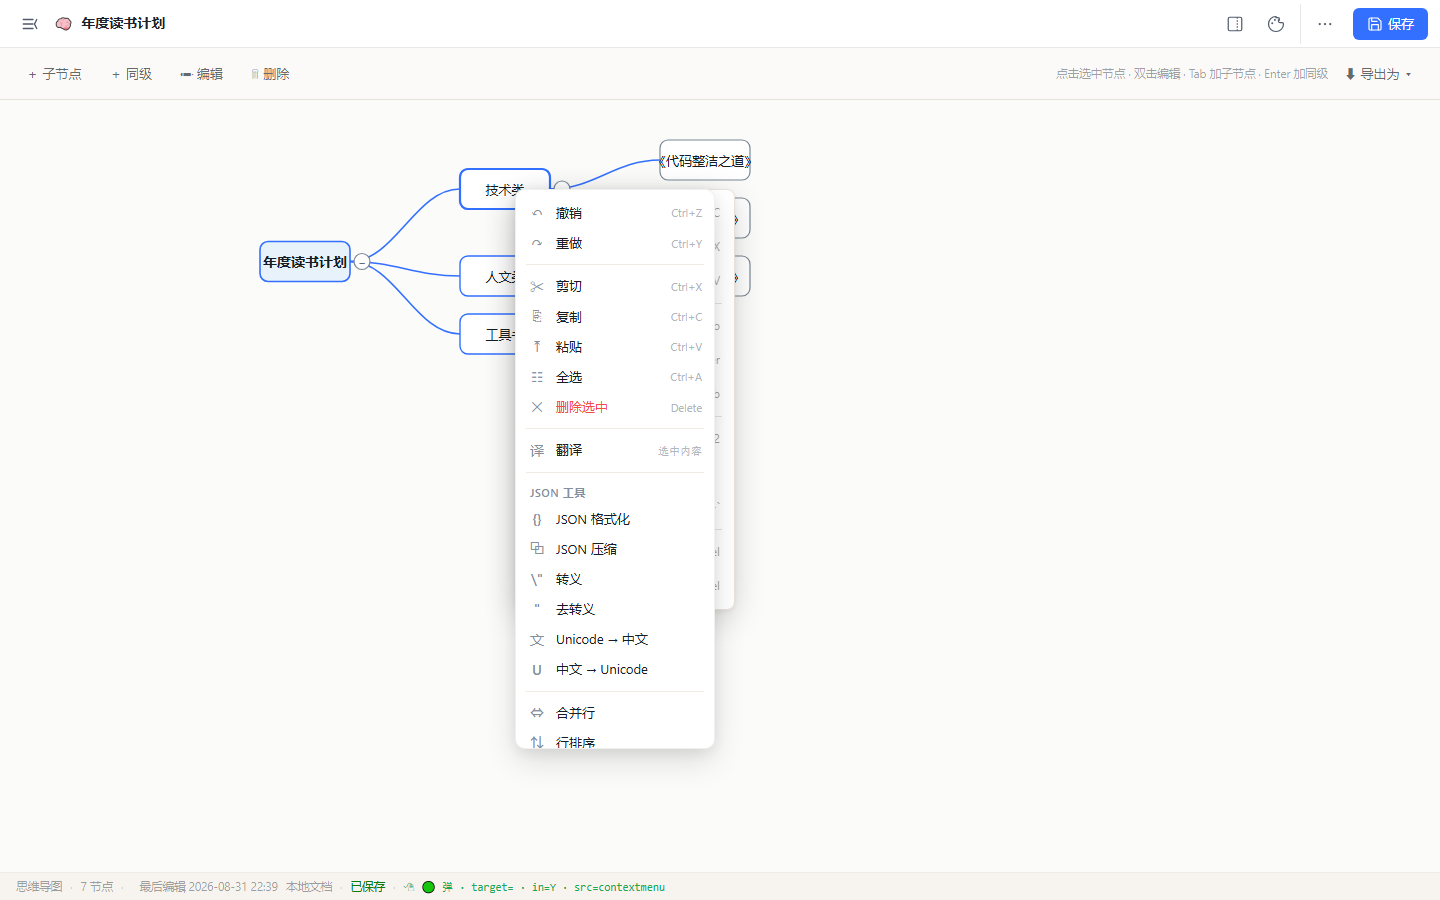
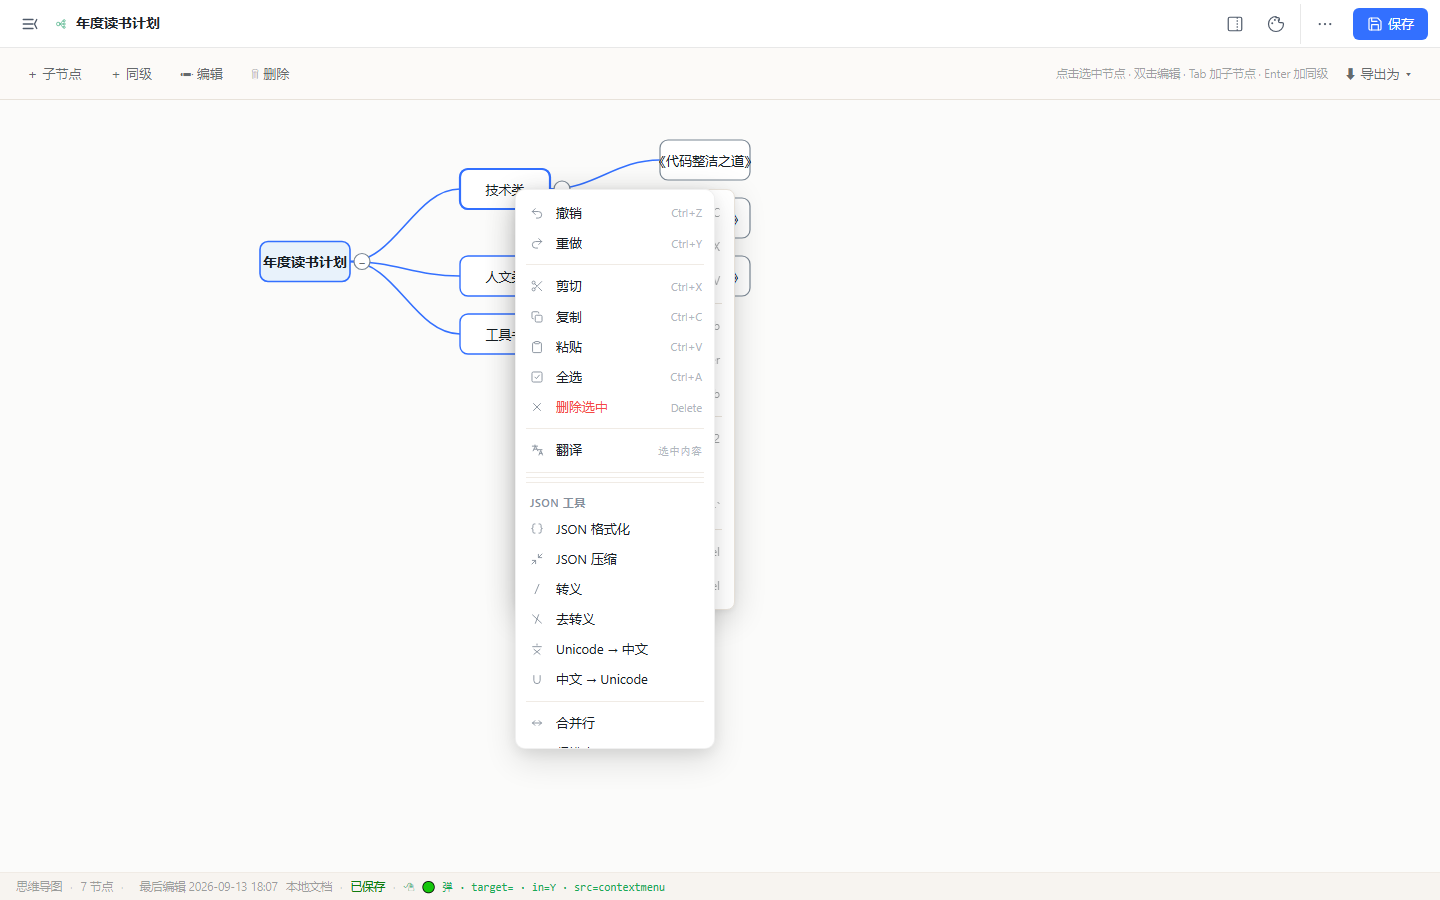
chore(site): 更新发布页面 v1.0.1

Changed region(s): [[0.375, 0.5289, 0.4688, 0.84], [0.0312, 0.0, 0.125, 0.0311], [0.1562, 0.9644, 0.1875, 0.9956]]

diff --git a/download.html b/download.html
@@ -186,34 +186,34 @@
     <div class="logo"><img src="resource/app_512.png" alt="L.Note"></div>
     <h1>L.Note本地笔记编辑软件</h1>
     <p class="tagline">本地笔记编辑软件 —— 语法高亮 · Markdown 预览 · Mermaid 图表 · JSON/XML 工具</p>
-    <div class="badge">免费 · 纯本地运行 · 无需联网 · 安装版 / 便携版可选 · <b>v1.0.0</b></div>
+    <div class="badge">免费 · 纯本地运行 · 无需联网 · 安装版 / 便携版可选 · <b>v1.0.1</b></div>
   </header>
 
   <div class="dl-grid">
     <div class="dl-card">
       <div class="dl-tag">推荐 · 安装版</div>
-      <a class="dl-btn" href="https://gitee.com/x_xiansheng/l.-note/releases/download/v1.0.0/L.Note-setup-v1.0.0.exe" download>
+      <a class="dl-btn" href="https://gitee.com/x_xiansheng/l.-note/releases/download/v1.0.1/L.Note-setup-v1.0.1.exe" download>
         <svg viewBox="0 0 24 24" fill="none" stroke="currentColor" stroke-width="2" stroke-linecap="round" stroke-linejoin="round"><path d="M12 3v12m0 0 4-4m-4 4-4-4M4 17v2a2 2 0 0 0 2 2h12a2 2 0 0 0 2-2v-2"/></svg>
-        下载安装版 v1.0.0
+        下载安装版 v1.0.1
       </a>
       <div class="dl-meta">
         安装向导 · 约 18.3 MB · Windows 10/11（x64）<br>
         可选注册 .md / .markdown / 图片文件关联，含卸载程序<br>
         SHA256（可复制核对）：<br>
-        <code class="hash">858B2FA4BE9823129A0AB0A960BA90477498D2A5A840B7597DECAD1D0A2AC125</code>
+        <code class="hash">2DA09C8D2201AA47975D0E52F47C54DE9821B20864B0334E827B3075A61C7506</code>
       </div>
     </div>
     <div class="dl-card">
       <div class="dl-tag alt">免安装 · 便携版</div>
-      <a class="dl-btn alt" href="https://gitee.com/x_xiansheng/l.-note/releases/download/v1.0.0/L.Note-v1.0.0-win64.exe" download>
+      <a class="dl-btn alt" href="https://gitee.com/x_xiansheng/l.-note/releases/download/v1.0.1/L.Note-v1.0.1-win64.exe" download>
         <svg viewBox="0 0 24 24" fill="none" stroke="currentColor" stroke-width="2" stroke-linecap="round" stroke-linejoin="round"><path d="M12 3v12m0 0 4-4m-4 4-4-4M4 17v2a2 2 0 0 0 2 2h12a2 2 0 0 0 2-2v-2"/></svg>
-        下载便携版 v1.0.0
+        下载便携版 v1.0.1
       </a>
       <div class="dl-meta">
         免安装 · 约 16.7 MB · Windows 10/11（x64）<br>
         双击直接运行；需要文件关联时用 register-file-assoc.ps1<br>
         SHA256（可复制核对）：<br>
-        <code class="hash">F7722C071D0B5D87575D3BE331EA97C24C9F9073D5CC8DDE42A6A660269B0D84</code>
+        <code class="hash">CA4D59A5321E86AD07577551D6E038F03F8441EB5E345B8260801F477AD74F62</code>
       </div>
     </div>
   </div>
@@ -305,8 +305,8 @@
       <div class="panel">
         <h3>安装与运行</h3>
         <ul>
-          <li><b>安装版（推荐）：</b>双击 L.Note-setup-v1.0.0.exe，按向导完成安装；勾选「注册文件关联」后，.md / .markdown / 图片文件即可双击用 L.Note 打开</li>
-          <li><b>便携版：</b>双击 L.Note-v1.0.0-win64.exe，免安装直接运行</li>
+          <li><b>安装版（推荐）：</b>双击 L.Note-setup-v1.0.1.exe，按向导完成安装；勾选「注册文件关联」后，.md / .markdown / 图片文件即可双击用 L.Note 打开</li>
+          <li><b>便携版：</b>双击 L.Note-v1.0.1-win64.exe，免安装直接运行</li>
           <li>依赖 Edge WebView2 运行时（Win11 自带，Win10 一般已预装）</li>
           <li>数据保存在本机浏览器存储，卸载/换机前请先导出备份</li>
         </ul>
@@ -316,8 +316,8 @@
         <ul>
           <li>复制上方对应文件的 SHA256 值</li>
           <li>在 exe 所在目录执行：</li>
-          <li><b>certutil -hashfile L.Note-setup-v1.0.0.exe SHA256</b></li>
-          <li><b>certutil -hashfile L.Note-v1.0.0-win64.exe SHA256</b></li>
+          <li><b>certutil -hashfile L.Note-setup-v1.0.1.exe SHA256</b></li>
+          <li><b>certutil -hashfile L.Note-v1.0.1-win64.exe SHA256</b></li>
           <li>比对输出哈希是否一致</li>
         </ul>
       </div>
@@ -326,6 +326,12 @@
 
   <section>
     <h2>更新日志</h2>
+    <div class="changelog">
+      <div class="v">v1.0.1</div>
+      <ul>
+        <li>**修复富文本文档点击「保存」提示保存失败**：根因是「另存为」原生对话框的文件类型过滤器描述含品牌名「L.Note」中的点号，pywebview 的 `parse_file_type` 只接受 `[\w ]+ (*.ext)` 形式并会抛 `ValueError`，而该异常在平台 try 之外，直接导致整个保存流程失败；现前端过滤器描述改为「LNote 富文档 (*.json)」，Python 侧 `_ask_save_path` 对每条过滤器逐条校验、剔除非法项并在全部非法时回落到「所有文件 (*.*)」，双保险后保存恢复正常。，**新建文档默认名称统一为「无标题 / 无标题 2 / 无标题 3 …」**：此前普通文档走「无标题」，而快捷键 `Ctrl+N` 及富文本 / 流程图 / 思维导图 / 笔记等入口走「未命名文档 N」，两套命名规则并存；现全部新建入口统一复用 `nextAutoTitle()`，按现有「无标题」文档数量追加序号，侧栏与标题框显示一致。，**新建文档不再自动写入磁盘**：新建文档仅保存在本地存储，必须由用户显式点击「保存 / 另存为」才创建磁盘文件，此后编辑才会自动同步到磁盘；修复「新建的文档未经确认就落盘」的问题，未关联磁盘文件时状态栏显示「已保存」而非「已保存到磁盘」。，**预览内容安全加固**：Markdown / HTML 预览挂载前新增「标签 + 属性」白名单净化（丢弃 `<script>` / `<iframe>` / `<object>` / 表单控件等，仅保留 `href` / `src` 等必要属性并校验 URL 协议，拦截 `javascript:` 等危险链接）；Mermaid 安全级别由 `loose` 收紧为 `strict`；`app.html` 新增 Content-Security-Policy，并把 HTML 预览 iframe 的 `sandbox` 收紧为仅 `allow-scripts`（去掉 `allow-same-origin`），杜绝预览内容逃逸。，**高危原生 API 增加会话令牌校验**：Python 端对写盘、移动 / 删除文件、保存图片、执行更新安装包等高危方法要求首位参数携带本进程随机生成的令牌（`hmac.compare_digest` 恒定时间比对），令牌仅保存在前端模块作用域、页面内注入脚本无法读取，因而无法直接调用 `window.pywebview.api` 触发高危操作；前端所有高危调用统一改走 `callApi()` 自动前置令牌。，**自动更新增加 SHA256 完整性校验**：下载完成后先进入「正在校验安装包完整性」状态，Python 端按 Gitee raw → GitHub raw → GitHub Pages 顺序拉取官方 `SHA256SUMS.txt`，与已下载临时文件的实际 SHA256 比对，一致才 `os.replace` 就位；校验和不匹配或无法获取官方值时删除临时文件并中止安装，防止下载被篡改或损坏。</li>
+      </ul>
+    </div>
     <div class="changelog">
       <div class="v">v1.0.0</div>
       <ul>

diff --git a/index.html b/index.html
@@ -186,34 +186,34 @@
     <div class="logo"><img src="resource/app_512.png" alt="L.Note"></div>
     <h1>L.Note本地笔记编辑软件</h1>
     <p class="tagline">本地笔记编辑软件 —— 语法高亮 · Markdown 预览 · Mermaid 图表 · JSON/XML 工具</p>
-    <div class="badge">免费 · 纯本地运行 · 无需联网 · 安装版 / 便携版可选 · <b>v1.0.0</b></div>
+    <div class="badge">免费 · 纯本地运行 · 无需联网 · 安装版 / 便携版可选 · <b>v1.0.1</b></div>
   </header>
 
   <div class="dl-grid">
     <div class="dl-card">
       <div class="dl-tag">推荐 · 安装版</div>
-      <a class="dl-btn" href="https://gitee.com/x_xiansheng/l.-note/releases/download/v1.0.0/L.Note-setup-v1.0.0.exe" download>
+      <a class="dl-btn" href="https://gitee.com/x_xiansheng/l.-note/releases/download/v1.0.1/L.Note-setup-v1.0.1.exe" download>
         <svg viewBox="0 0 24 24" fill="none" stroke="currentColor" stroke-width="2" stroke-linecap="round" stroke-linejoin="round"><path d="M12 3v12m0 0 4-4m-4 4-4-4M4 17v2a2 2 0 0 0 2 2h12a2 2 0 0 0 2-2v-2"/></svg>
-        下载安装版 v1.0.0
+        下载安装版 v1.0.1
       </a>
       <div class="dl-meta">
         安装向导 · 约 18.3 MB · Windows 10/11（x64）<br>
         可选注册 .md / .markdown / 图片文件关联，含卸载程序<br>
         SHA256（可复制核对）：<br>
-        <code class="hash">858B2FA4BE9823129A0AB0A960BA90477498D2A5A840B7597DECAD1D0A2AC125</code>
+        <code class="hash">2DA09C8D2201AA47975D0E52F47C54DE9821B20864B0334E827B3075A61C7506</code>
       </div>
     </div>
     <div class="dl-card">
       <div class="dl-tag alt">免安装 · 便携版</div>
-      <a class="dl-btn alt" href="https://gitee.com/x_xiansheng/l.-note/releases/download/v1.0.0/L.Note-v1.0.0-win64.exe" download>
+      <a class="dl-btn alt" href="https://gitee.com/x_xiansheng/l.-note/releases/download/v1.0.1/L.Note-v1.0.1-win64.exe" download>
         <svg viewBox="0 0 24 24" fill="none" stroke="currentColor" stroke-width="2" stroke-linecap="round" stroke-linejoin="round"><path d="M12 3v12m0 0 4-4m-4 4-4-4M4 17v2a2 2 0 0 0 2 2h12a2 2 0 0 0 2-2v-2"/></svg>
-        下载便携版 v1.0.0
+        下载便携版 v1.0.1
       </a>
       <div class="dl-meta">
         免安装 · 约 16.7 MB · Windows 10/11（x64）<br>
         双击直接运行；需要文件关联时用 register-file-assoc.ps1<br>
         SHA256（可复制核对）：<br>
-        <code class="hash">F7722C071D0B5D87575D3BE331EA97C24C9F9073D5CC8DDE42A6A660269B0D84</code>
+        <code class="hash">CA4D59A5321E86AD07577551D6E038F03F8441EB5E345B8260801F477AD74F62</code>
       </div>
     </div>
   </div>
@@ -305,8 +305,8 @@
       <div class="panel">
         <h3>安装与运行</h3>
         <ul>
-          <li><b>安装版（推荐）：</b>双击 L.Note-setup-v1.0.0.exe，按向导完成安装；勾选「注册文件关联」后，.md / .markdown / 图片文件即可双击用 L.Note 打开</li>
-          <li><b>便携版：</b>双击 L.Note-v1.0.0-win64.exe，免安装直接运行</li>
+          <li><b>安装版（推荐）：</b>双击 L.Note-setup-v1.0.1.exe，按向导完成安装；勾选「注册文件关联」后，.md / .markdown / 图片文件即可双击用 L.Note 打开</li>
+          <li><b>便携版：</b>双击 L.Note-v1.0.1-win64.exe，免安装直接运行</li>
           <li>依赖 Edge WebView2 运行时（Win11 自带，Win10 一般已预装）</li>
           <li>数据保存在本机浏览器存储，卸载/换机前请先导出备份</li>
         </ul>
@@ -316,8 +316,8 @@
         <ul>
           <li>复制上方对应文件的 SHA256 值</li>
           <li>在 exe 所在目录执行：</li>
-          <li><b>certutil -hashfile L.Note-setup-v1.0.0.exe SHA256</b></li>
-          <li><b>certutil -hashfile L.Note-v1.0.0-win64.exe SHA256</b></li>
+          <li><b>certutil -hashfile L.Note-setup-v1.0.1.exe SHA256</b></li>
+          <li><b>certutil -hashfile L.Note-v1.0.1-win64.exe SHA256</b></li>
           <li>比对输出哈希是否一致</li>
         </ul>
       </div>
@@ -326,6 +326,12 @@
 
   <section>
     <h2>更新日志</h2>
+    <div class="changelog">
+      <div class="v">v1.0.1</div>
+      <ul>
+        <li>**修复富文本文档点击「保存」提示保存失败**：根因是「另存为」原生对话框的文件类型过滤器描述含品牌名「L.Note」中的点号，pywebview 的 `parse_file_type` 只接受 `[\w ]+ (*.ext)` 形式并会抛 `ValueError`，而该异常在平台 try 之外，直接导致整个保存流程失败；现前端过滤器描述改为「LNote 富文档 (*.json)」，Python 侧 `_ask_save_path` 对每条过滤器逐条校验、剔除非法项并在全部非法时回落到「所有文件 (*.*)」，双保险后保存恢复正常。，**新建文档默认名称统一为「无标题 / 无标题 2 / 无标题 3 …」**：此前普通文档走「无标题」，而快捷键 `Ctrl+N` 及富文本 / 流程图 / 思维导图 / 笔记等入口走「未命名文档 N」，两套命名规则并存；现全部新建入口统一复用 `nextAutoTitle()`，按现有「无标题」文档数量追加序号，侧栏与标题框显示一致。，**新建文档不再自动写入磁盘**：新建文档仅保存在本地存储，必须由用户显式点击「保存 / 另存为」才创建磁盘文件，此后编辑才会自动同步到磁盘；修复「新建的文档未经确认就落盘」的问题，未关联磁盘文件时状态栏显示「已保存」而非「已保存到磁盘」。，**预览内容安全加固**：Markdown / HTML 预览挂载前新增「标签 + 属性」白名单净化（丢弃 `<script>` / `<iframe>` / `<object>` / 表单控件等，仅保留 `href` / `src` 等必要属性并校验 URL 协议，拦截 `javascript:` 等危险链接）；Mermaid 安全级别由 `loose` 收紧为 `strict`；`app.html` 新增 Content-Security-Policy，并把 HTML 预览 iframe 的 `sandbox` 收紧为仅 `allow-scripts`（去掉 `allow-same-origin`），杜绝预览内容逃逸。，**高危原生 API 增加会话令牌校验**：Python 端对写盘、移动 / 删除文件、保存图片、执行更新安装包等高危方法要求首位参数携带本进程随机生成的令牌（`hmac.compare_digest` 恒定时间比对），令牌仅保存在前端模块作用域、页面内注入脚本无法读取，因而无法直接调用 `window.pywebview.api` 触发高危操作；前端所有高危调用统一改走 `callApi()` 自动前置令牌。，**自动更新增加 SHA256 完整性校验**：下载完成后先进入「正在校验安装包完整性」状态，Python 端按 Gitee raw → GitHub raw → GitHub Pages 顺序拉取官方 `SHA256SUMS.txt`，与已下载临时文件的实际 SHA256 比对，一致才 `os.replace` 就位；校验和不匹配或无法获取官方值时删除临时文件并中止安装，防止下载被篡改或损坏。</li>
+      </ul>
+    </div>
     <div class="changelog">
       <div class="v">v1.0.0</div>
       <ul>

diff --git a/blink-guide.html b/blink-guide.html
@@ -105,7 +105,7 @@
     <div class="logo">L.</div>
     <h1>反向链接 · 操作指南</h1>
     <p class="tagline">L.Note本地笔记编辑软件内置反向链接面板，帮你发现文档之间的关联</p>
-    <div class="badge">版本 v1.0.0 · 纯本地运行 · <b>4 步上手</b></div>
+    <div class="badge">版本 v1.0.1 · 纯本地运行 · <b>4 步上手</b></div>
   </header>
 
   <div class="intro">

diff --git a/RELEASE-NOTES.md b/RELEASE-NOTES.md
@@ -1,13 +1,13 @@
-# L.Note v1.0.0 发布说明
+# L.Note v1.0.1 发布说明
 
 > L.Note本地笔记编辑软件：语法高亮 / Markdown 实时预览 / Mermaid 图表 / JSON·XML 格式化。
 > 纯本地运行，数据保存在本地存储，无需联网、无账号。
 
 ## 下载
 
-> 官方 Windows 安装版（标准安装向导 + 可选文件关联 + 卸载程序，自 v0.21.11 起提供）与便携版均可直接下载，推荐大多数用户下载安装版。本版 v1.0.0 重做了全套文档类型图标：新建菜单、侧栏文档列表、顶栏面包屑、富文档浮动工具条与右键「AI 图表」菜单里原先的 emoji 图标，全部替换为统一线性风格的 SVG 图标，并按文档类型各赋一种颜色——文档（灰蓝）/ 富文档（紫）/ Word（深蓝）/ 思维笔记（品红）/ 便利贴（琥珀）/ 图表（青）/ 流程图（蓝）/ 思维导图（绿）/ PDF（红），「打开文件夹」「导入文件」两个菜单动作图标也一并换为线性图标并上色（青绿 / 橙棕）；深色模式下自动切换为同色相的提亮值，回收站与 AI 菜单禁用态则统一置灰。同时修复自动更新安装期间屏幕无任何反馈的问题：守护进程调用安装器由 `/VERYSILENT` 改为 `/SILENT`，保留原生安装进度窗口。上一版 v0.23.2 新增 AI 能力并支持文档列表拖动排序：在「设置 → AI 助手」填入自己的 API Key（OpenAI 兼容接口，默认 DeepSeek）后，在正文中选中文本即可通过右键菜单或浮动工具条调用 AI 助手（润色 / 续写 / 总结要点 / 扩写 / 纠错 / 生成大纲，结果在独立浮层流式输出，可随时停止并替换原文或插入到光标处），并可一键生成流程图 / 思维导图；密钥仅保存在本机配置文件，不写入任何文档、不上传第三方。再上一版 v0.21.17 已将自动更新改为守护进程原地静默升级并自动重启，自 v0.21.13 起支持自动更新。
+> 官方 Windows 安装版（标准安装向导 + 可选文件关联 + 卸载程序，自 v0.21.11 起提供）与便携版均可直接下载，推荐大多数用户下载安装版。本版 v1.0.1 重做了全套文档类型图标：新建菜单、侧栏文档列表、顶栏面包屑、富文档浮动工具条与右键「AI 图表」菜单里原先的 emoji 图标，全部替换为统一线性风格的 SVG 图标，并按文档类型各赋一种颜色——文档（灰蓝）/ 富文档（紫）/ Word（深蓝）/ 思维笔记（品红）/ 便利贴（琥珀）/ 图表（青）/ 流程图（蓝）/ 思维导图（绿）/ PDF（红），「打开文件夹」「导入文件」两个菜单动作图标也一并换为线性图标并上色（青绿 / 橙棕）；深色模式下自动切换为同色相的提亮值，回收站与 AI 菜单禁用态则统一置灰。同时修复自动更新安装期间屏幕无任何反馈的问题：守护进程调用安装器由 `/VERYSILENT` 改为 `/SILENT`，保留原生安装进度窗口。上一版 v0.23.2 新增 AI 能力并支持文档列表拖动排序：在「设置 → AI 助手」填入自己的 API Key（OpenAI 兼容接口，默认 DeepSeek）后，在正文中选中文本即可通过右键菜单或浮动工具条调用 AI 助手（润色 / 续写 / 总结要点 / 扩写 / 纠错 / 生成大纲，结果在独立浮层流式输出，可随时停止并替换原文或插入到光标处），并可一键生成流程图 / 思维导图；密钥仅保存在本机配置文件，不写入任何文档、不上传第三方。再上一版 v0.21.17 已将自动更新改为守护进程原地静默升级并自动重启，自 v0.21.13 起支持自动更新。
 
-- 安装版（推荐，约 18.3 MB）：`L.Note-setup-v1.0.0.exe`
+- 安装版（推荐，约 18.3 MB）：`L.Note-setup-v1.0.1.exe`
 
   - 标准 Inno Setup 安装向导，自定义安装目录（默认 `%LOCALAPPDATA%\Programs\L.Note`），自动创建开始菜单快捷方式
 
@@ -15,7 +15,7 @@
 
   - 自带标准卸载程序：Windows 设置 → 应用 → 已安装的应用 → L.Note → 卸载，或开始菜单「卸载 L.Note」
 
-- 便携版（免安装，约 16.7 MB）：`L.Note-v1.0.0-win64.exe`
+- 便携版（免安装，约 16.7 MB）：`L.Note-v1.0.1-win64.exe`
 
 - 校验和：见 `SHA256SUMS.txt`（可用 `certutil -hashfile <文件> SHA256` 核对）
 
@@ -23,8 +23,8 @@
 
 ## 使用说明
 
-1. 安装版：双击 `L.Note-setup-v1.0.0.exe` 进入安装向导 → 选择安装目录 → 建议勾选「注册文件关联」任务 → 完成安装后从开始菜单启动 L.Note。
-2. 便携版：双击 `L.Note-v1.0.0-win64.exe` 直接运行，无需安装；想注册文件关联时可运行仓库内 `register-file-assoc.ps1`（仅写 HKCU，无需管理员权限）。
+1. 安装版：双击 `L.Note-setup-v1.0.1.exe` 进入安装向导 → 在「选择附加任务」页按需勾选「创建桌面快捷方式」或「文件关联」（后者把 L.Note 设为 .md/.markdown 与常见图片的默认打开程序）→ 依次完成「准备安装」「正在安装」→ 在完成页点击「完成」后从开始菜单或桌面快捷方式启动 L.Note。
+2. 便携版：双击 `L.Note-v1.0.1-win64.exe` 直接运行，无需安装；想注册文件关联时可运行仓库内 `register-file-assoc.ps1`（仅写 HKCU，无需管理员权限）。
 3. 未签名程序首次运行可能出现 SmartScreen「未知发布者」提示：点击「更多信息」→「仍要运行」即可（详见下方「关于签名」）。
 4. 数据保存在本机（浏览器 localStorage），换电脑/清理数据前请先用「导出」备份。
 
@@ -33,6 +33,20 @@
 当前发布包未做代码签名（无受信任 CA 证书），Windows SmartScreen 会提示「未知发布者」。这不影响功能与安全；如需消除提示，可购买 OV/EV 代码签名证书（约 ¥1000/年）后重新签名发布，后续版本可跟进。
 
 ## 更新日志（本版亮点）
+
+**v1.0.1**
+
+- **修复富文本文档点击「保存」提示保存失败**：根因是「另存为」原生对话框的文件类型过滤器描述含品牌名「L.Note」中的点号，pywebview 的 `parse_file_type` 只接受 `[\w ]+ (*.ext)` 形式并会抛 `ValueError`，而该异常在平台 try 之外，直接导致整个保存流程失败；现前端过滤器描述改为「LNote 富文档 (*.json)」，Python 侧 `_ask_save_path` 对每条过滤器逐条校验、剔除非法项并在全部非法时回落到「所有文件 (*.*)」，双保险后保存恢复正常。
+
+- **新建文档默认名称统一为「无标题 / 无标题 2 / 无标题 3 …」**：此前普通文档走「无标题」，而快捷键 `Ctrl+N` 及富文本 / 流程图 / 思维导图 / 笔记等入口走「未命名文档 N」，两套命名规则并存；现全部新建入口统一复用 `nextAutoTitle()`，按现有「无标题」文档数量追加序号，侧栏与标题框显示一致。
+
+- **新建文档不再自动写入磁盘**：新建文档仅保存在本地存储，必须由用户显式点击「保存 / 另存为」才创建磁盘文件，此后编辑才会自动同步到磁盘；修复「新建的文档未经确认就落盘」的问题，未关联磁盘文件时状态栏显示「已保存」而非「已保存到磁盘」。
+
+- **预览内容安全加固**：Markdown / HTML 预览挂载前新增「标签 + 属性」白名单净化（丢弃 `<script>` / `<iframe>` / `<object>` / 表单控件等，仅保留 `href` / `src` 等必要属性并校验 URL 协议，拦截 `javascript:` 等危险链接）；Mermaid 安全级别由 `loose` 收紧为 `strict`；`app.html` 新增 Content-Security-Policy，并把 HTML 预览 iframe 的 `sandbox` 收紧为仅 `allow-scripts`（去掉 `allow-same-origin`），杜绝预览内容逃逸。
+
+- **高危原生 API 增加会话令牌校验**：Python 端对写盘、移动 / 删除文件、保存图片、执行更新安装包等高危方法要求首位参数携带本进程随机生成的令牌（`hmac.compare_digest` 恒定时间比对），令牌仅保存在前端模块作用域、页面内注入脚本无法读取，因而无法直接调用 `window.pywebview.api` 触发高危操作；前端所有高危调用统一改走 `callApi()` 自动前置令牌。
+
+- **自动更新增加 SHA256 完整性校验**：下载完成后先进入「正在校验安装包完整性」状态，Python 端按 Gitee raw → GitHub raw → GitHub Pages 顺序拉取官方 `SHA256SUMS.txt`，与已下载临时文件的实际 SHA256 比对，一致才 `os.replace` 就位；校验和不匹配或无法获取官方值时删除临时文件并中止安装，防止下载被篡改或损坏。
 
 **v1.0.0**
 
